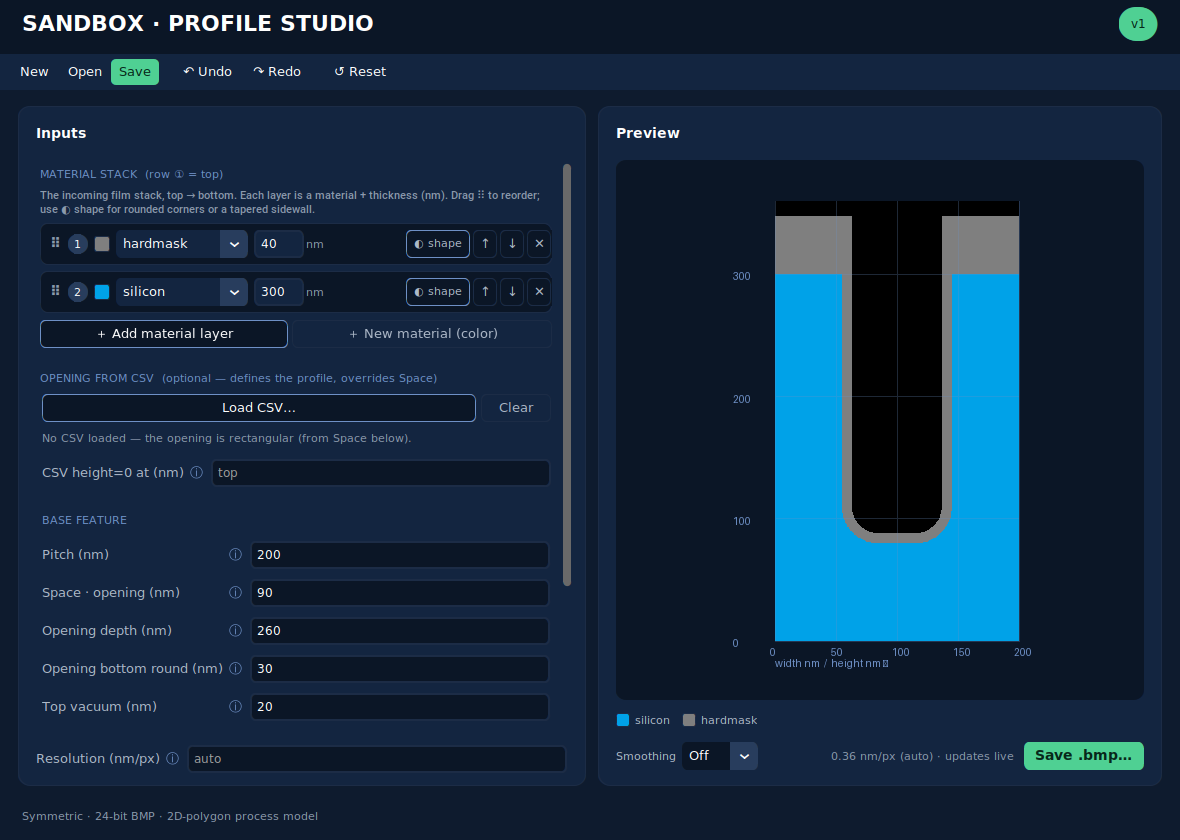
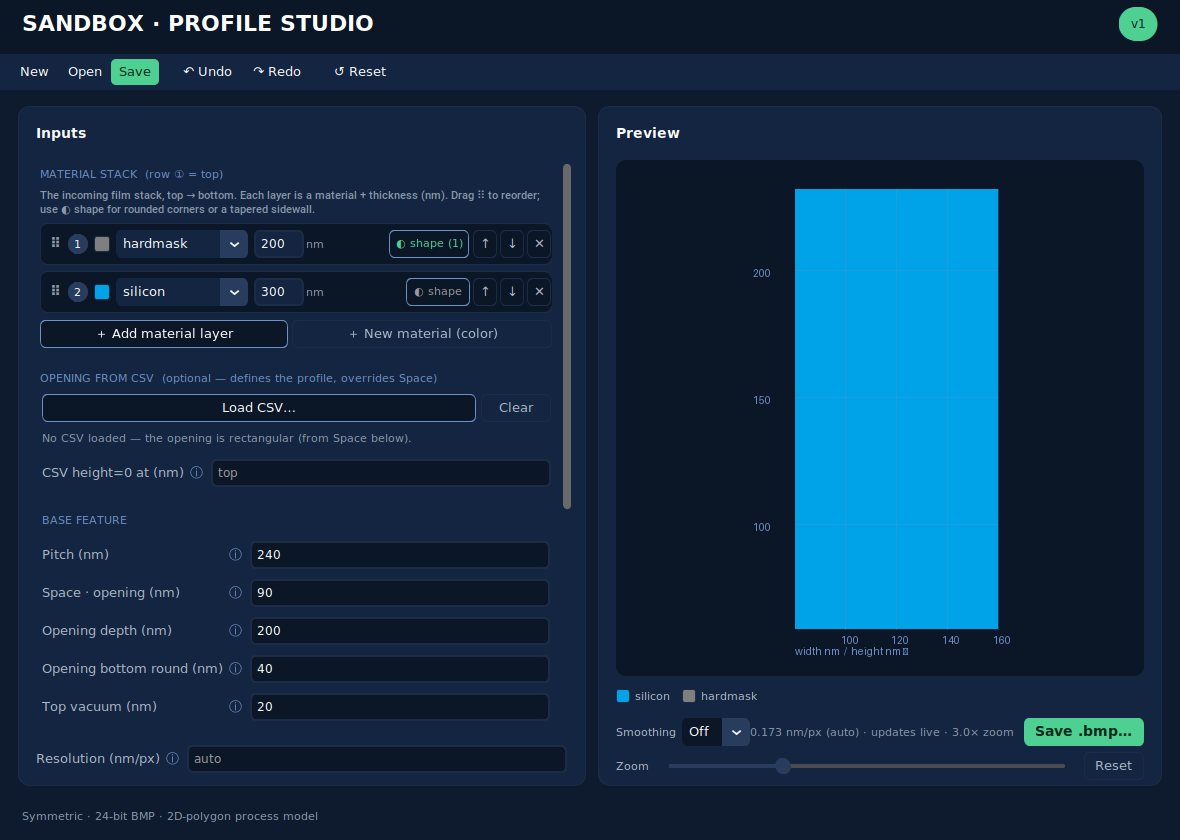
Preview zoom (slider+pan+wheel), clarify 'top', finish User-2 items
- Zoom: a zoom bar (1x-8x) plus drag-to-pan, scroll-wheel zoom, and double-click / Reset.
  Zoomed views re-render finer (bounded) so crops stay crisp; axes relabel to the crop's
  nm range via a new compose_preview origin.
- Clarify 'top': Opening depth is measured from the top of the TOPMOST MATERIAL (row 1),
  not the top of the image; Top vacuum is headroom above the stack and does not affect it.
- (from prior User-2 batch, now shipped together) manual+auto nm/px clamped to a pixel cap
  so huge/fine profiles can't freeze; nm/px readout shown after render; CSV block moved
  above Base feature into the stack area; Space/Opening depth/bottom-round grayed out while
  a CSV drives the opening. 52 tests pass.

diff --git a/src/incoming_profile_utility/gui.py b/src/incoming_profile_utility/gui.py
@@ -20,9 +20,9 @@ ON="#FFFFFF"; SOFT="#AEB9C8"; MUT="#8B99AC"
 FIELDS = [
     ("pitch","Pitch (nm)","120","Width of one repeating unit cell = line + opening."),
     ("space","Space · opening (nm)","50","Width of the centered opening. line width = pitch − space."),
-    ("opening_depth","Opening depth (nm)","","How far down the opening is cut, measured from the TOP of the whole stack (not per-layer). Blank = cut all the way through every material."),
+    ("opening_depth","Opening depth (nm)","","How far down the opening is cut, measured from the top of the TOPMOST MATERIAL (row ① in the stack) — NOT from the top of the image. The top-vacuum headroom above the stack does not count. Blank = cut all the way through every material."),
     ("opening_bottom_radius","Opening bottom round (nm)","","Round the BOTTOM of the opening into a U. 0 = flat; ≈ half the Space = full semicircle."),
-    ("top_vacuum","Top vacuum (nm)","20","Empty space above the stack (room to deposit on top)."),
+    ("top_vacuum","Top vacuum (nm)","20","Empty headroom drawn ABOVE the topmost material (room to deposit on top). This sits above the stack and does not affect Opening depth."),
 ]
 OP_LABELS = ["Deposit · conformal","Deposit · planar","Fill","Etch · isotropic","Etch · anisotropic","Planarize"]
 OP_PRESETS = {"deposit":("Deposit · conformal","oxide",8),"fill":("Fill","tungsten",0),
@@ -54,7 +54,7 @@ def _nice_step(extent):
         if raw<=m*mag: return m*mag
     return 10*mag
 
-def compose_preview(bmp_path, nm_per_px, target_h=440):
+def compose_preview(bmp_path, nm_per_px, target_h=440, origin=(0.0,0.0)):
     img=Image.open(bmp_path).convert("RGB"); w,h=img.size
     disp=min(6.0, target_h/h); dw,dh=max(1,int(w*disp)),max(1,int(h*disp))
     prof=img.resize((dw,dh), Image.NEAREST)
@@ -62,11 +62,14 @@ def compose_preview(bmp_path, nm_per_px, target_h=440):
     canvas=Image.new("RGB",(ML+dw+MR, MT+dh+MB),(11,22,38)); canvas.paste(prof,(ML,MT))
     ov=Image.new("RGBA",canvas.size,(0,0,0,0)); d=ImageDraw.Draw(ov); font=ImageFont.load_default()
     ppn=disp/nm_per_px; wnm,hnm=w*nm_per_px,h*nm_per_px; sx,sy=_nice_step(wnm),_nice_step(hnm)
+    x0,y0=origin
     grid=(110,144,198,70); tick=(110,144,198,255)
-    for k in range(int(wnm//sx)+1):
-        xx=ML+k*sx*ppn; d.line([(xx,MT),(xx,MT+dh)],fill=grid); d.text((xx-5,MT+dh+5),f"{int(k*sx)}",fill=tick,font=font)
-    for k in range(int(hnm//sy)+1):
-        yy=MT+dh-k*sy*ppn; d.line([(ML,yy),(ML+dw,yy)],fill=grid); d.text((6,yy-4),f"{int(k*sy)}",fill=tick,font=font)
+    nx=math.ceil(x0/sx)*sx
+    while nx<=x0+wnm+1e-6:
+        xx=ML+(nx-x0)*ppn; d.line([(xx,MT),(xx,MT+dh)],fill=grid); d.text((xx-5,MT+dh+5),f"{int(round(nx))}",fill=tick,font=font); nx+=sx
+    ny=math.ceil(y0/sy)*sy
+    while ny<=y0+hnm+1e-6:
+        yy=MT+dh-(ny-y0)*ppn; d.line([(ML,yy),(ML+dw,yy)],fill=grid); d.text((6,yy-4),f"{int(round(ny))}",fill=tick,font=font); ny+=sy
     d.text((ML,MT+dh+16),"width nm  /  height nm ↑",fill=tick,font=font)
     return Image.alpha_composite(canvas.convert("RGBA"),ov).convert("RGB")
 
@@ -258,6 +261,7 @@ class ProfileStudio(ctk.CTk):
         self.palette=load_palette(); self.opening_trace=None
         self.material_menus=[]; self.matlayer_rows=[]; self._last_state=None
         self._undo=[]; self._redo=[]; self._loading=False; self._drag=None; self._last_npp=0.4; self.smooth_level=ctk.StringVar(value="Off")
+        self._zoom=1.0; self._cx=0.5; self._cy=0.5; self._pv=None; self._pan=None   # zoom/pan view state
         self.uf=ctk.CTkFont(family="Inter",size=13); self.ub=ctk.CTkFont(family="Inter",size=14,weight="bold")
         self.tf=ctk.CTkFont(family="Inter",size=20,weight="bold"); self.mono=ctk.CTkFont(family="JetBrains Mono",size=12)
         self.eb=ctk.CTkFont(family="JetBrains Mono",size=11)
@@ -377,14 +381,52 @@ class ProfileStudio(ctk.CTk):
         card=self._card(parent,"Preview"); card.grid(row=0,column=1,sticky="nsew")
         fr=ctk.CTkFrame(card,fg_color=NAVY_900,corner_radius=10); fr.pack(expand=True,fill="both",padx=18,pady=6)
         self.preview=ctk.CTkLabel(fr,text="",fg_color=NAVY_900); self.preview.pack(expand=True,fill="both",padx=10,pady=10)
+        for ev,cb in (("<ButtonPress-1>",self._pan_start),("<B1-Motion>",self._pan_move),
+                      ("<Double-Button-1>",lambda e:self._reset_zoom()),
+                      ("<MouseWheel>",self._wheel_zoom),("<Button-4>",self._wheel_zoom),("<Button-5>",self._wheel_zoom)):
+            self.preview.bind(ev,cb,add="+")
         self.legend=ctk.CTkFrame(card,fg_color="transparent"); self.legend.pack(fill="x",padx=18,pady=(0,4))
-        bar=ctk.CTkFrame(card,fg_color="transparent"); bar.pack(fill="x",padx=18,pady=(4,16)); bar.grid_columnconfigure(0,weight=1)
+        bar=ctk.CTkFrame(card,fg_color="transparent"); bar.pack(fill="x",padx=18,pady=(4,4)); bar.grid_columnconfigure(0,weight=1)
         sm=ctk.CTkFrame(bar,fg_color="transparent"); sm.grid(row=0,column=0,sticky="w")
         ctk.CTkLabel(sm,text="Smoothing",font=self.eb,text_color=SOFT).pack(side="left",padx=(0,6))
         ctk.CTkOptionMenu(sm,values=["Off","2×","4×","8×"],variable=self.smooth_level,command=lambda _v:self.render_preview(),
                           width=76,font=self.uf,fg_color=NAVY_900,button_color=BLUE,button_hover_color=BLUE_L,text_color=ON).pack(side="left")
         self.preview_note=ctk.CTkLabel(bar,text="preview updates as you edit",font=self.eb,text_color=MUT); self.preview_note.grid(row=0,column=1,padx=(0,10))
         ctk.CTkButton(bar,text="Save .bmp…",command=self.save_bmp,font=self.ub,width=120,fg_color=GREEN,hover_color=GREEN_D,text_color=GREEN_INK).grid(row=0,column=2)
+        # zoom bar (row 1): drag the preview to pan, scroll to zoom, double-click to reset
+        zb=ctk.CTkFrame(bar,fg_color="transparent"); zb.grid(row=1,column=0,columnspan=3,sticky="ew",pady=(6,2)); zb.grid_columnconfigure(1,weight=1)
+        ctk.CTkLabel(zb,text="Zoom",font=self.eb,text_color=SOFT).grid(row=0,column=0,padx=(0,8))
+        self.zoom_var=ctk.DoubleVar(value=1.0)
+        self.zoom_slider=ctk.CTkSlider(zb,from_=1.0,to=8.0,number_of_steps=70,variable=self.zoom_var,
+                                       command=self._on_zoom_slider,button_color=BLUE,button_hover_color=BLUE_L,progress_color=BLUE)
+        self.zoom_slider.grid(row=0,column=1,sticky="ew",padx=6)
+        ctk.CTkButton(zb,text="Reset",command=self._reset_zoom,font=self.uf,width=60,fg_color="transparent",border_width=1,
+                      border_color=NAVY_700,text_color=SOFT,hover_color=NAVY_700).grid(row=0,column=2,padx=(6,0))
+        Tooltip(self.zoom_slider,"Zoom the preview. You can also scroll the wheel over the preview to zoom, drag to pan, and double-click to reset.")
+
+    def _on_zoom_slider(self,_v=None):
+        self._zoom=max(1.0,float(self.zoom_var.get()))
+        if self._zoom<=1.0: self._cx=self._cy=0.5
+        self.render_preview()
+    def _reset_zoom(self):
+        self._zoom=1.0; self._cx=self._cy=0.5
+        if hasattr(self,"zoom_var"): self.zoom_var.set(1.0)
+        self.render_preview()
+    def _wheel_zoom(self,e):
+        step=1.2 if getattr(e,"delta",0)>0 or getattr(e,"num",0)==4 else (1/1.2)
+        self._zoom=min(8.0,max(1.0,self._zoom*step))
+        if self._zoom<=1.0: self._cx=self._cy=0.5
+        if hasattr(self,"zoom_var"): self.zoom_var.set(self._zoom)
+        self.render_preview()
+    def _pan_start(self,e):
+        self._pan=(e.x,e.y,self._cx,self._cy)
+    def _pan_move(self,e):
+        if not self._pan or self._zoom<=1.0 or not self._pv: return
+        x0,y0,cx0,cy0=self._pan; pw,ph,z=self._pv
+        # composed px -> cell fraction (data area ~ full composed size); drag content with cursor
+        self._cx=cx0-(e.x-x0)/max(1,pw)/z
+        self._cy=cy0+(e.y-y0)/max(1,ph)/z
+        self.render_preview()
 
     def _footer(self):
         ctk.CTkLabel(self,text="Symmetric · 24-bit BMP · 2D-polygon process model",font=self.eb,text_color=MUT).grid(row=3,column=0,sticky="w",padx=22,pady=(0,10))
@@ -646,17 +688,22 @@ class ProfileStudio(ctk.CTk):
         try: return float(v)
         except ValueError: return None
 
-    def _resolve_npp(self, st, cap=1600):
+    def _resolve_npp(self, st, cap=1600, target_px=1000):
         minx,miny,maxx,maxy=st.cell.bounds
         W=max(maxx-minx,1.0); H=max(maxy-miny,1.0)
         manual=self._scale()
-        npp = manual if (manual and manual>0) else H/1000.0     # manual value, else ~1000 px tall
+        npp = manual if (manual and manual>0) else H/target_px  # manual value, else ~target_px px tall
         npp = max(npp, W/cap, H/cap, 0.005)                     # clamp so neither side exceeds `cap` px
         return npp
 
     def _render_to(self,out_path,for_save=False):
         base=proc.build_base(self._params()); st=proc.evaluate(base,self.stack.to_ops()); self._last_state=st
-        npp=self._resolve_npp(st, cap=12000 if for_save else 1600); self._last_npp=npp
+        z=max(1.0, getattr(self,"_zoom",1.0))
+        if for_save:
+            npp=self._resolve_npp(st, cap=12000)
+        else:
+            npp=self._resolve_npp(st, cap=min(6000,int(1600*z)), target_px=min(4000,int(1000*z)))
+        self._last_npp=npp
         ss={"Off":1,"2×":2,"4×":4,"8×":8}.get(self.smooth_level.get(),1)
         if ss==1:
             proc.render_regions(st,self.palette,out_path,npp)     # hard pixels, no AA
@@ -674,6 +721,8 @@ class ProfileStudio(ctk.CTk):
 
     def _reset(self, capture=True):
         if capture: self._capture()
+        self._zoom=1.0; self._cx=self._cy=0.5
+        if hasattr(self,"zoom_var"): self.zoom_var.set(1.0)
         self.stack.clear()
         for r in list(self.matlayer_rows): r.frame.destroy()
         self.matlayer_rows=[]; self._relayout_matstack()
@@ -737,11 +786,22 @@ class ProfileStudio(ctk.CTk):
         self._update_csv_field_state()
         try:
             tmp=Path(tempfile.gettempdir())/"_ipu_preview.bmp"; self._render_to(tmp)
-            disp=compose_preview(tmp,self._last_npp,target_h=440)
+            src=tmp; origin=(0.0,0.0); z=self._zoom
+            if z>1.0:
+                im=Image.open(tmp); W,H=im.size; half=0.5/z
+                cx=min(max(self._cx,half),1-half); cy=min(max(self._cy,half),1-half); self._cx,self._cy=cx,cy
+                fx0,fx1=cx-half,cx+half; fy0,fy1=cy-half,cy+half
+                px0=int(fx0*W); px1=max(px0+1,int(round(fx1*W)))
+                py0=int((1-fy1)*H); py1=max(py0+1,int(round((1-fy0)*H)))   # image y is top-origin
+                crop=Path(tempfile.gettempdir())/"_ipu_crop.bmp"; im.crop((px0,py0,px1,py1)).save(crop)
+                src=crop; origin=(fx0*W*self._last_npp, fy0*H*self._last_npp)
+            disp=compose_preview(src,self._last_npp,target_h=440,origin=origin)
             self.preview.configure(image=ctk.CTkImage(light_image=disp,dark_image=disp,size=disp.size),text="")
+            self._pv=(disp.size[0],disp.size[1],z)                        # for pan mapping
             self._update_legend()
             mode="" if self._scale() else " (auto)"
-            self.preview_note.configure(text=f"{self._last_npp:.3g} nm/px{mode} · updates live")
+            zoom_txt="" if z<=1.0 else f" · {z:.1f}× zoom"
+            self.preview_note.configure(text=f"{self._last_npp:.3g} nm/px{mode} · updates live{zoom_txt}")
         except Exception as exc:
             self.preview.configure(image=None,text=f"⚠ {exc}",text_color=MUT)
 
